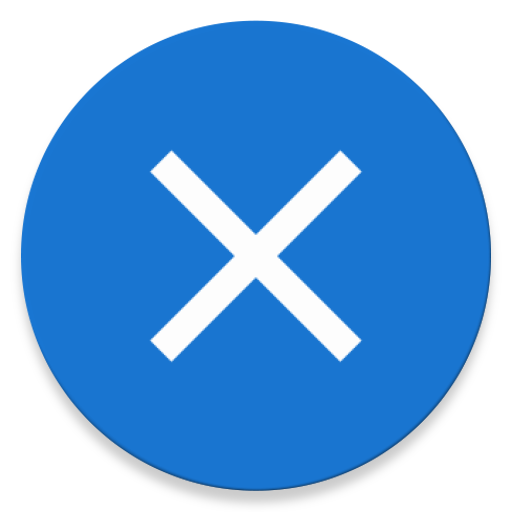
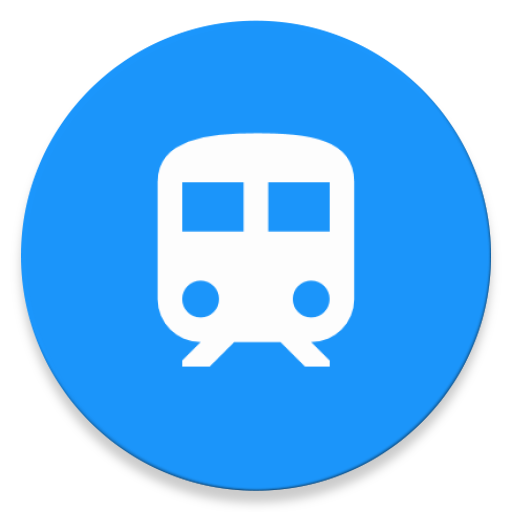
一键清理/锁屏快捷方式

diff --git a/app/src/main/java/github/tornaco/xposedmoduletest/ui/activity/stub/ClearStubActivity.java b/app/src/main/java/github/tornaco/xposedmoduletest/ui/activity/stub/ClearStubActivity.java
@@ -1,0 +1,143 @@
+package github.tornaco.xposedmoduletest.ui.activity.stub;
+
+import android.annotation.SuppressLint;
+import android.app.Activity;
+import android.content.Context;
+import android.content.Intent;
+import android.content.pm.ShortcutInfo;
+import android.content.pm.ShortcutManager;
+import android.graphics.Bitmap;
+import android.graphics.drawable.Icon;
+import android.os.Build;
+import android.os.Bundle;
+import android.os.RemoteException;
+import android.support.annotation.Nullable;
+import android.support.annotation.RequiresApi;
+
+import com.bumptech.glide.request.target.SimpleTarget;
+import com.bumptech.glide.request.transition.Transition;
+
+import github.tornaco.xposedmoduletest.R;
+import github.tornaco.xposedmoduletest.loader.GlideApp;
+import github.tornaco.xposedmoduletest.ui.widget.ToastManager;
+import github.tornaco.xposedmoduletest.util.OSUtil;
+import github.tornaco.xposedmoduletest.util.XExecutor;
+import github.tornaco.xposedmoduletest.xposed.app.IProcessClearListenerAdapter;
+import github.tornaco.xposedmoduletest.xposed.app.XAshmanManager;
+import github.tornaco.xposedmoduletest.xposed.util.PkgUtil;
+
+/**
+ * Created by guohao4 on 2018/3/5.
+ * Email: Tornaco@163.com
+ */
+
+public class ClearStubActivity extends Activity {
+
+    public static Intent createIntent(Context context) {
+        Intent intent = new Intent(context, ClearStubActivity.class);
+        intent.addFlags(Intent.FLAG_ACTIVITY_NEW_TASK);
+        return intent;
+    }
+
+    @SuppressLint("CheckResult")
+    public static void addShortcut(final Context context) {
+        GlideApp.with(context)
+                .asBitmap()
+                .load(R.mipmap.ic_clear_process)
+                .placeholder(0)
+                .error(R.mipmap.ic_launcher_round)
+                .fallback(R.mipmap.ic_launcher_round)
+                .into(new SimpleTarget<Bitmap>() {
+                    @Override
+                    public void onResourceReady(Bitmap resource, Transition<? super Bitmap> transition) {
+                        if (OSUtil.isOOrAbove()) {
+                            doAddForO(context, resource);
+                        } else {
+                            doAddForNAndBelow(context, resource);
+                        }
+                    }
+                });
+    }
+
+    private static void doAddForNAndBelow(final Context context, Bitmap res) {
+        Intent shortcut = new Intent(
+                "com.android.launcher.action.INSTALL_SHORTCUT");
+
+        Intent shortcutIntent = createIntent(context);
+
+        shortcut.putExtra(Intent.EXTRA_SHORTCUT_INTENT, shortcutIntent);
+
+        shortcut.putExtra(Intent.EXTRA_SHORTCUT_NAME, context.getString(R.string.clear_process_now));
+        shortcut.putExtra("duplicate", false);
+
+        shortcut.putExtra(Intent.EXTRA_SHORTCUT_ICON, res);
+
+        context.sendBroadcast(shortcut);
+    }
+
+    @RequiresApi(api = Build.VERSION_CODES.O)
+    private static void doAddForO(Context context,
+                                  Bitmap resource) {
+        ShortcutManager shortcutManager = (ShortcutManager) context.getSystemService(Context.SHORTCUT_SERVICE);
+
+        if (shortcutManager != null && shortcutManager.isRequestPinShortcutSupported()) {
+            Intent shortcutInfoIntent = createIntent(context);
+
+            ShortcutInfo info = new ShortcutInfo.Builder(context, context.getPackageName())
+                    .setIcon(Icon.createWithBitmap(resource))
+                    .setShortLabel(context.getString(R.string.clear_process_now))
+                    .setIntent(shortcutInfoIntent)
+                    .build();
+
+            shortcutManager.requestPinShortcut(info, null);
+        }
+
+    }
+
+    @Override
+    protected void onCreate(@Nullable Bundle savedInstanceState) {
+        super.onCreate(savedInstanceState);
+
+        finish();
+
+        if (XAshmanManager.get().isServiceAvailable()) {
+            final int[] clearNum = {0};
+            XAshmanManager.get().clearProcess(new IProcessClearListenerAdapter() {
+                @Override
+                public boolean doNotClearWhenIntervative() throws RemoteException {
+                    return false;
+                }
+
+                @Override
+                public void onPrepareClearing() throws RemoteException {
+                    super.onPrepareClearing();
+                    clearNum[0] = 0;
+                }
+
+                @Override
+                public void onClearedPkg(final String pkg) throws RemoteException {
+                    super.onClearedPkg(pkg);
+                    XExecutor.runOnUIThread(new Runnable() {
+                        @Override
+                        public void run() {
+                            ToastManager.show(getApplicationContext(), getString(R.string.clearing_process_app,
+                                    PkgUtil.loadNameByPkgName(getApplicationContext(), pkg)));
+                        }
+                    });
+                    clearNum[0]++;
+                }
+
+                @Override
+                public void onAllCleared(final String[] pkg) throws RemoteException {
+                    super.onAllCleared(pkg);
+                    XExecutor.runOnUIThread(new Runnable() {
+                        @Override
+                        public void run() {
+                            ToastManager.show(getApplicationContext(), getString(R.string.clear_process_complete, String.valueOf(clearNum[0])));
+                        }
+                    });
+                }
+            });
+        }
+    }
+}

diff --git a/app/src/main/java/github/tornaco/xposedmoduletest/ui/activity/NavigatorActivityBottomNav.java b/app/src/main/java/github/tornaco/xposedmoduletest/ui/activity/NavigatorActivityBottomNav.java
@@ -28,6 +28,7 @@ import android.widget.ImageView;
 import android.widget.TextView;
 import android.widget.Toast;
 
+import com.flipboard.bottomsheet.BottomSheetLayout;
 import com.google.common.collect.ImmutableList;
 import com.jaredrummler.android.shell.Shell;
 import com.nononsenseapps.filepicker.FilePickerActivity;
@@ -52,6 +53,8 @@ import github.tornaco.xposedmoduletest.ui.ActivityLifeCycleDashboardFragment;
 import github.tornaco.xposedmoduletest.ui.FragmentController;
 import github.tornaco.xposedmoduletest.ui.Themes;
 import github.tornaco.xposedmoduletest.ui.activity.helper.RunningServicesActivity;
+import github.tornaco.xposedmoduletest.ui.activity.stub.ClearStubActivity;
+import github.tornaco.xposedmoduletest.ui.activity.stub.LockScreenStubActivity;
 import github.tornaco.xposedmoduletest.ui.tiles.AppBoot;
 import github.tornaco.xposedmoduletest.ui.tiles.AppGuard;
 import github.tornaco.xposedmoduletest.ui.tiles.AppStart;
@@ -378,9 +381,15 @@ public class NavigatorActivityBottomNav extends WithWithCustomTabActivity implem
                             @Override
                             public void onClick(DialogInterface dialog, int which) {
                                 AppSettings.setFirstRun(getApplicationContext());
+                                showUpdateLog();
                             }
                         })
-                        .setPositiveButton(android.R.string.ok, null)
+                        .setPositiveButton(android.R.string.ok, new DialogInterface.OnClickListener() {
+                            @Override
+                            public void onClick(DialogInterface dialog, int which) {
+                                showUpdateLog();
+                            }
+                        })
                         .setNegativeButton(android.R.string.cancel, new DialogInterface.OnClickListener() {
                             @Override
                             public void onClick(DialogInterface dialog, int which) {
@@ -392,6 +401,19 @@ public class NavigatorActivityBottomNav extends WithWithCustomTabActivity implem
         } catch (Throwable e) {
             Toast.makeText(getActivity(), R.string.init_first_run_fail, Toast.LENGTH_SHORT).show();
         }
+    }
+
+    private void showUpdateLog() {
+        final BottomSheetLayout bottomSheet = findViewById(R.id.bottomsheet);
+        bottomSheet.showWithSheetView(LayoutInflater.from(getActivity())
+                .inflate(R.layout.update_log_sheet_layout, bottomSheet, false));
+        bottomSheet.findViewById(R.id.update_log_close_button)
+                .setOnClickListener(new View.OnClickListener() {
+                    @Override
+                    public void onClick(View v) {
+                        bottomSheet.dismissSheet();
+                    }
+                });
     }
 
     @Override
@@ -501,6 +523,10 @@ public class NavigatorActivityBottomNav extends WithWithCustomTabActivity implem
             assist.numColumns = 1; // Force se to 1.
             assist.addTile(new RunningServices(getActivity()));
 
+            if (XAppBuildVar.BUILD_VARS.contains(XAppBuildVar.APP_COMP_EDIT)) {
+                assist.addTile(new ComponentManager(getActivity()));
+            }
+
             Category boost = new Category();
             boost.moreDrawableRes = R.drawable.ic_more_vert_black_24dp;
             boost.onMoreButtonClickListener = new View.OnClickListener() {
@@ -512,7 +538,15 @@ public class NavigatorActivityBottomNav extends WithWithCustomTabActivity implem
                     popupMenu.setOnMenuItemClickListener(new PopupMenu.OnMenuItemClickListener() {
                         @Override
                         public boolean onMenuItemClick(MenuItem item) {
-                            ToastManager.show(getActivity(), "No impl, waiting for developer's work...");
+                            if (item.getItemId() == R.id.action_lock_now) {
+                                XAshmanManager.get().injectPowerEvent();
+                            } else if (item.getItemId() == R.id.action_add_lock_shortcut) {
+                                LockScreenStubActivity.addShortcut(getActivity());
+                            } else if (item.getItemId() == R.id.action_add_shortcut) {
+                                ClearStubActivity.addShortcut(getActivity());
+                            } else {
+                                ToastManager.show(getActivity(), "No impl, waiting for developer's work...");
+                            }
                             return true;
                         }
                     });
@@ -525,7 +559,6 @@ public class NavigatorActivityBottomNav extends WithWithCustomTabActivity implem
             if (XAppBuildVar.BUILD_VARS.contains(XAppBuildVar.APP_LK)) {
                 boost.addTile(new LockKill(getActivity()));
             }
-
 
             categories.add(assist);
             categories.add(boost);
@@ -787,10 +820,6 @@ public class NavigatorActivityBottomNav extends WithWithCustomTabActivity implem
                     Toast.makeText(getActivity(), R.string.category_help_advance, Toast.LENGTH_SHORT).show();
                 }
             };
-
-            if (XAppBuildVar.BUILD_VARS.contains(XAppBuildVar.APP_COMP_EDIT)) {
-                ash.addTile(new ComponentManager(getActivity()));
-            }
 
             if (XAppBuildVar.BUILD_VARS.contains(XAppBuildVar.APP_COMP_REPLACE)) {
                 ash.addTile(new CompReplacement(getActivity()));

diff --git a/app/src/main/java/github/tornaco/xposedmoduletest/ui/activity/stub/LockScreenStubActivity.java b/app/src/main/java/github/tornaco/xposedmoduletest/ui/activity/stub/LockScreenStubActivity.java
@@ -1,0 +1,100 @@
+package github.tornaco.xposedmoduletest.ui.activity.stub;
+
+import android.annotation.SuppressLint;
+import android.app.Activity;
+import android.content.Context;
+import android.content.Intent;
+import android.content.pm.ShortcutInfo;
+import android.content.pm.ShortcutManager;
+import android.graphics.Bitmap;
+import android.graphics.drawable.Icon;
+import android.os.Build;
+import android.os.Bundle;
+import android.support.annotation.Nullable;
+import android.support.annotation.RequiresApi;
+
+import com.bumptech.glide.request.target.SimpleTarget;
+import com.bumptech.glide.request.transition.Transition;
+
+import github.tornaco.xposedmoduletest.R;
+import github.tornaco.xposedmoduletest.loader.GlideApp;
+import github.tornaco.xposedmoduletest.util.OSUtil;
+import github.tornaco.xposedmoduletest.xposed.app.XAshmanManager;
+
+/**
+ * Created by guohao4 on 2018/3/5.
+ * Email: Tornaco@163.com
+ */
+
+public class LockScreenStubActivity extends Activity {
+
+    public static Intent createIntent(Context context) {
+        Intent intent = new Intent(context, LockScreenStubActivity.class);
+        intent.addFlags(Intent.FLAG_ACTIVITY_NEW_TASK);
+        return intent;
+    }
+
+    @SuppressLint("CheckResult")
+    public static void addShortcut(final Context context) {
+        GlideApp.with(context)
+                .asBitmap()
+                .load(R.mipmap.ic_lock_screen)
+                .placeholder(0)
+                .error(R.mipmap.ic_launcher_round)
+                .fallback(R.mipmap.ic_launcher_round)
+                .into(new SimpleTarget<Bitmap>() {
+                    @Override
+                    public void onResourceReady(Bitmap resource, Transition<? super Bitmap> transition) {
+                        if (OSUtil.isOOrAbove()) {
+                            doAddForO(context, resource);
+                        } else {
+                            doAddForNAndBelow(context, resource);
+                        }
+                    }
+                });
+    }
+
+    private static void doAddForNAndBelow(final Context context, Bitmap res) {
+        Intent shortcut = new Intent(
+                "com.android.launcher.action.INSTALL_SHORTCUT");
+
+        Intent shortcutIntent = createIntent(context);
+
+        shortcut.putExtra(Intent.EXTRA_SHORTCUT_INTENT, shortcutIntent);
+
+        shortcut.putExtra(Intent.EXTRA_SHORTCUT_NAME, context.getString(R.string.title_lock_now));
+        shortcut.putExtra("duplicate", false);
+
+        shortcut.putExtra(Intent.EXTRA_SHORTCUT_ICON, res);
+
+        context.sendBroadcast(shortcut);
+    }
+
+    @RequiresApi(api = Build.VERSION_CODES.O)
+    private static void doAddForO(Context context,
+                                  Bitmap resource) {
+        ShortcutManager shortcutManager = (ShortcutManager) context.getSystemService(Context.SHORTCUT_SERVICE);
+
+        if (shortcutManager != null && shortcutManager.isRequestPinShortcutSupported()) {
+            Intent shortcutInfoIntent = createIntent(context);
+
+            ShortcutInfo info = new ShortcutInfo.Builder(context, context.getPackageName())
+                    .setIcon(Icon.createWithBitmap(resource))
+                    .setShortLabel(context.getString(R.string.title_lock_now))
+                    .setIntent(shortcutInfoIntent)
+                    .build();
+
+            shortcutManager.requestPinShortcut(info, null);
+        }
+
+    }
+
+    @Override
+    protected void onCreate(@Nullable Bundle savedInstanceState) {
+        super.onCreate(savedInstanceState);
+        if (XAshmanManager.get().isServiceAvailable()) {
+            XAshmanManager.get().injectPowerEvent();
+        }
+        finish();
+    }
+}

diff --git a/app/src/main/java/github/tornaco/xposedmoduletest/ui/tiles/ComponentManager.java b/app/src/main/java/github/tornaco/xposedmoduletest/ui/tiles/ComponentManager.java
@@ -19,7 +19,7 @@ public class ComponentManager extends QuickTile {
     public ComponentManager(final Context context) {
         super(context);
         this.titleRes = R.string.title_component_manager;
-        this.iconRes = R.drawable.ic_bubble_chart_black_24dp;
+        this.iconRes = R.drawable.ic_dashboard_black_24dp;
         this.tileView = new QuickTileView(context, this) {
             @Override
             public void onClick(View v) {
